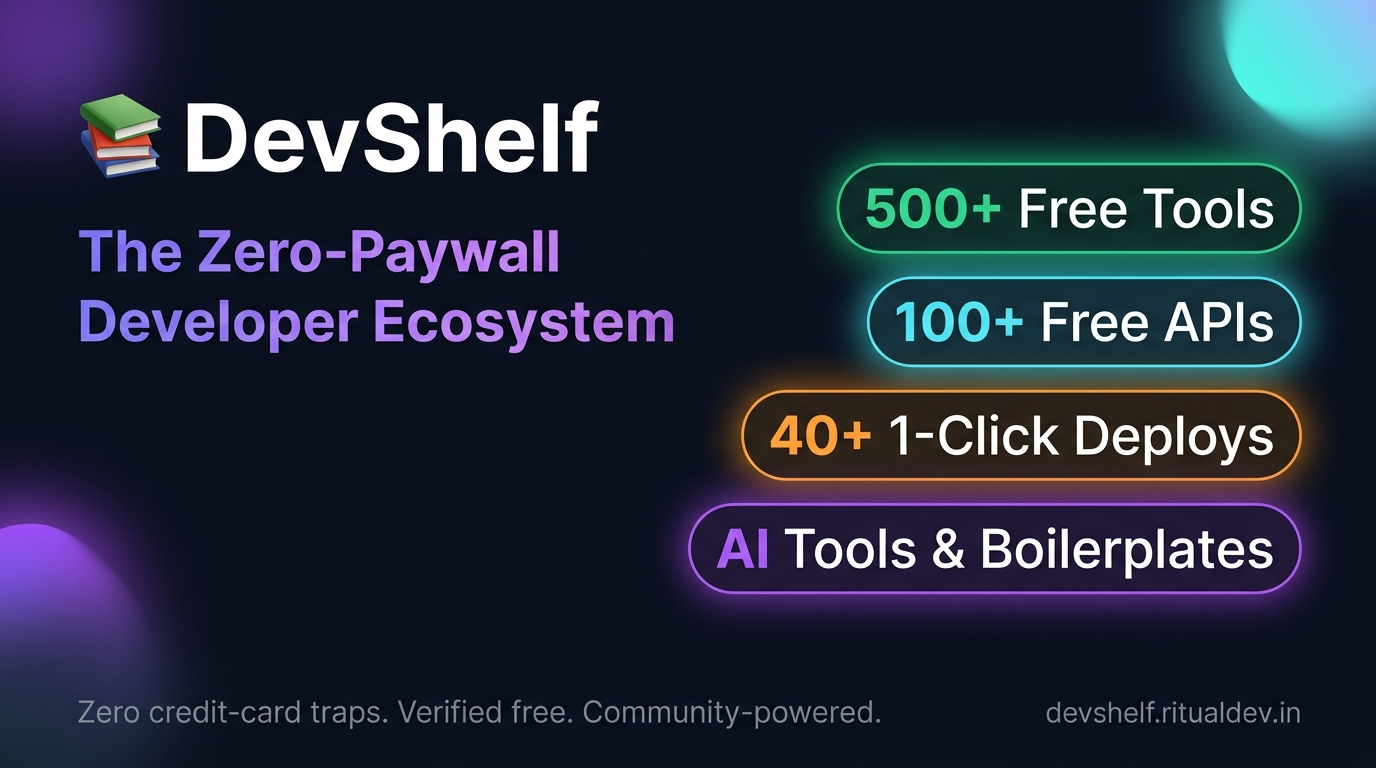
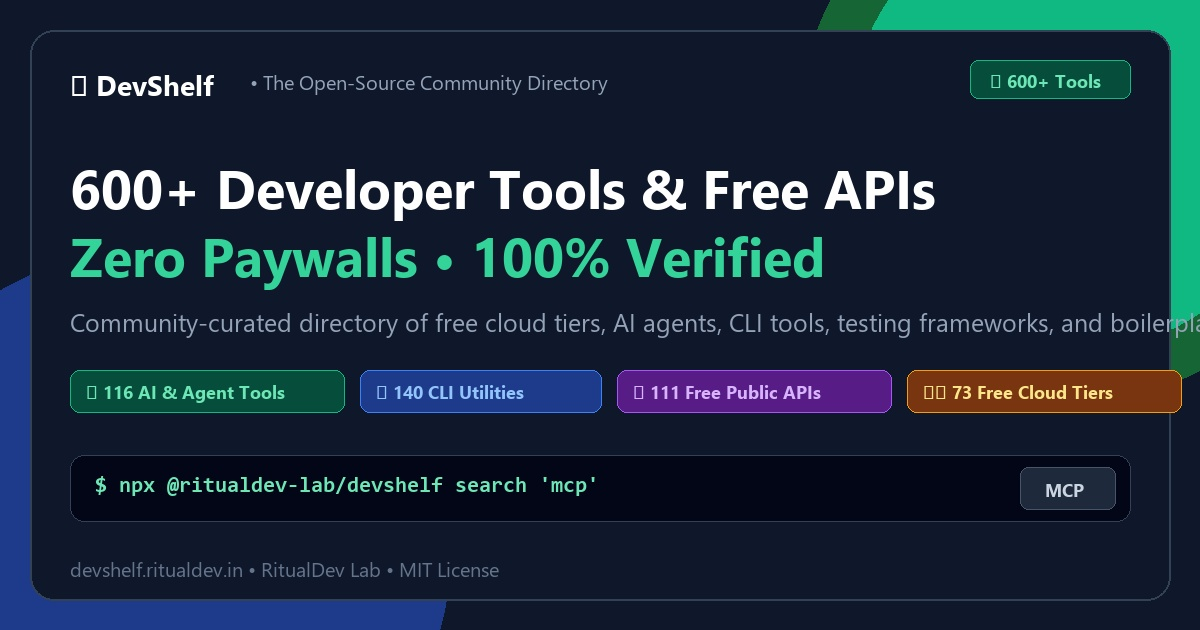
feat(seo): add dynamic OpenGraph social preview cards and generator script (#266)

diff --git a/scripts/generate-og-images.py b/scripts/generate-og-images.py
@@ -1,0 +1,95 @@
+#!/usr/bin/env python3
+"""
+DevShelf Dynamic OpenGraph Social Card Generator (1200x630)
+Generates high-resolution social preview cards for:
+- Homepage (site/og-image.jpg & site/og/default.png)
+- Sponsors Page (site/og/sponsors.png)
+- Categories (site/og/{category}.png)
+"""
+
+from pathlib import Path
+from PIL import Image, ImageDraw, ImageFont
+
+ROOT_DIR = Path(__file__).resolve().parent.parent
+SITE_DIR = ROOT_DIR / "site"
+OG_DIR = SITE_DIR / "og"
+OG_DIR.mkdir(parents=True, exist_ok=True)
+
+W, H = 1200, 630
+
+# Load Windows system fonts
+FONT_DIR = Path("C:/Windows/Fonts")
+font_hero = ImageFont.truetype(str(FONT_DIR / "segoeuib.ttf"), 54)
+font_sub = ImageFont.truetype(str(FONT_DIR / "segoeui.ttf"), 25)
+font_brand = ImageFont.truetype(str(FONT_DIR / "segoeuib.ttf"), 28)
+font_pill = ImageFont.truetype(str(FONT_DIR / "segoeuib.ttf"), 18)
+font_code = ImageFont.truetype(str(FONT_DIR / "consolab.ttf"), 22)
+font_meta = ImageFont.truetype(str(FONT_DIR / "segoeui.ttf"), 20)
+
+def generate_devshelf_og():
+    img = Image.new("RGB", (W, H), (15, 23, 42)) # slate-900
+    draw = ImageDraw.Draw(img)
+
+    # Ambient radial gradient glows
+    draw.ellipse([800, -150, 1350, 400], fill=(22, 101, 52)) # emerald-800
+    draw.ellipse([850, -100, 1300, 350], fill=(16, 185, 129)) # emerald-500
+    draw.ellipse([-150, 250, 450, 850], fill=(30, 58, 138)) # blue-900
+
+    # Inner Glass Card
+    draw.rounded_rectangle([30, 30, W - 30, H - 30], radius=24, fill=(15, 23, 42), outline=(51, 65, 85), width=2)
+
+    # Top Brand Bar
+    draw.text((70, 65), "📚 DevShelf", fill=(255, 255, 255), font=font_brand)
+    draw.text((250, 68), "• The Open-Source Community Directory", fill=(148, 163, 184), font=font_meta)
+
+    # Milestone Badge (600+ Tools)
+    draw.rounded_rectangle([970, 60, 1130, 98], radius=8, fill=(6, 78, 59), outline=(16, 185, 129), width=1)
+    draw.text((990, 68), "🎉 600+ Tools", fill=(110, 231, 183), font=font_pill)
+
+    # Hero Title (2 lines)
+    draw.text((70, 150), "600+ Developer Tools & Free APIs", fill=(255, 255, 255), font=font_hero)
+    draw.text((70, 218), "Zero Paywalls • 100% Verified", fill=(52, 211, 153), font=font_hero)
+
+    # Subtitle
+    desc = "Community-curated directory of free cloud tiers, AI agents, CLI tools, testing frameworks, and boilerplates."
+    draw.text((70, 305), desc, fill=(148, 163, 184), font=font_sub)
+
+    # 4 Category Pills
+    pills = [
+        ("🤖 116 AI & Agent Tools", (6, 78, 59), (16, 185, 129), (110, 231, 183)),
+        ("⚡ 140 CLI Utilities", (30, 58, 138), (59, 130, 246), (147, 197, 253)),
+        ("🌐 111 Free Public APIs", (88, 28, 135), (168, 85, 247), (216, 180, 254)),
+        ("☁ 73 Free Cloud Tiers", (120, 53, 15), (245, 158, 11), (253, 230, 138)),
+    ]
+
+    px = 70
+    py = 370
+    for label, bg, border, text_color in pills:
+        pw = len(label) * 11 + 32
+        draw.rounded_rectangle([px, py, px + pw, py + 42], radius=10, fill=bg, outline=border, width=1)
+        draw.text((px + 16, py + 9), label, fill=text_color, font=font_pill)
+        px += pw + 16
+
+    # Terminal CLI Command Box
+    y_cmd = 455
+    draw.rounded_rectangle([70, y_cmd, 1130, y_cmd + 66], radius=14, fill=(2, 6, 23), outline=(51, 65, 85), width=1)
+    draw.text((95, y_cmd + 20), "$ npx @ritualdev-lab/devshelf search 'mcp'", fill=(110, 231, 183), font=font_code)
+
+    draw.rounded_rectangle([1020, y_cmd + 12, 1115, y_cmd + 54], radius=8, fill=(30, 41, 59), outline=(71, 85, 105), width=1)
+    draw.text((1045, y_cmd + 22), "MCP", fill=(203, 213, 225), font=font_pill)
+
+    # Bottom Footer
+    draw.text((70, 555), "devshelf.ritualdev.in • RitualDev Lab • MIT License", fill=(100, 116, 139), font=font_meta)
+
+    # Save outputs
+    out_jpg = SITE_DIR / "og-image.jpg"
+    out_png = SITE_DIR / "og-image.png"
+    out_default = OG_DIR / "default.png"
+
+    img.save(str(out_jpg), "JPEG", quality=95)
+    img.save(str(out_png), "PNG", quality=95)
+    img.save(str(out_default), "PNG", quality=95)
+    print(f"✔ Successfully generated {out_jpg}, {out_png}, and {out_default}")
+
+if __name__ == "__main__":
+    generate_devshelf_og()
